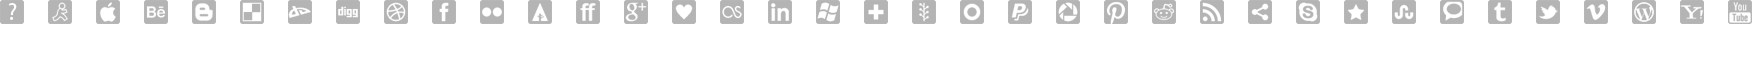
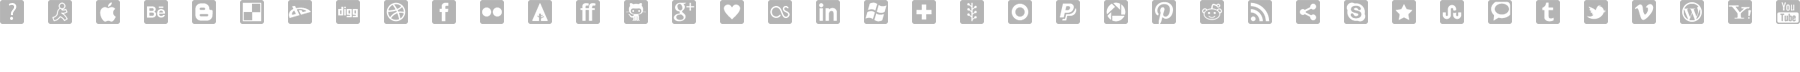
Fix some conception troubles:
* Rework theme (remove menu feature)
 * Move data source in the configuration
 * Add favicon feature
 * Add github social icon
 * Use project logo as favicon

Changed region(s): [[0.0308, 0.0, 1.0, 0.3333]]

diff --git a/web/cdn/expo/css/expo_display.css b/web/cdn/expo/css/expo_display.css
@@ -290,30 +290,31 @@ a:focus {
 #project-information > .content > .authors .social_networks > li.flicker a { background-position: -480px 0; }
 #project-information > .content > .authors .social_networks > li.forrst a { background-position: -528px 0; }
 #project-information > .content > .authors .social_networks > li.friend_feed a { background-position: -576px 0; }
-#project-information > .content > .authors .social_networks > li.google+ a { background-position: -624px 0; }
-#project-information > .content > .authors .social_networks > li.heart a { background-position: -672px 0; }
-#project-information > .content > .authors .social_networks > li.lastfm a { background-position: -720px 0; }
-#project-information > .content > .authors .social_networks > li.linkedin a { background-position: -768px 0; }
-#project-information > .content > .authors .social_networks > li.microsoft a { background-position: -816px 0; }
-#project-information > .content > .authors .social_networks > li.netvibes a { background-position: -864px 0; }
-#project-information > .content > .authors .social_networks > li.newsvine a { background-position: -912px 0; }
-#project-information > .content > .authors .social_networks > li.orkut a { background-position: -960px 0; }
-#project-information > .content > .authors .social_networks > li.paypal a { background-position: -1008px 0; }
-#project-information > .content > .authors .social_networks > li.picasa a { background-position: -1056px 0; }
-#project-information > .content > .authors .social_networks > li.pinterest a { background-position: -1104px 0; }
-#project-information > .content > .authors .social_networks > li.reddit a { background-position: -1152px 0; }
-#project-information > .content > .authors .social_networks > li.rss a { background-position: -1200px 0; }
-#project-information > .content > .authors .social_networks > li.sharethis a { background-position: -1248px 0; }
-#project-information > .content > .authors .social_networks > li.skype a { background-position: -1298px 0; }
-#project-information > .content > .authors .social_networks > li.star a { background-position: -1344px 0; }
-#project-information > .content > .authors .social_networks > li.stumbleupon a { background-position: -1392px 0; }
-#project-information > .content > .authors .social_networks > li.technorati a { background-position: -1440px 0; }
-#project-information > .content > .authors .social_networks > li.tumblr a { background-position: -1488px 0; }
-#project-information > .content > .authors .social_networks > li.twitter a { background-position: -1536px 0; }
-#project-information > .content > .authors .social_networks > li.vimeo a { background-position: -1584px 0; }
-#project-information > .content > .authors .social_networks > li.wordpress a { background-position: -1632px 0; }
-#project-information > .content > .authors .social_networks > li.yahoo a { background-position: -1680px 0; }
-#project-information > .content > .authors .social_networks > li.youtube a { background-position: -1728px 0; }
+#project-information > .content > .authors .social_networks > li.github a { background-position: -624px 0; }
+#project-information > .content > .authors .social_networks > li.google a { background-position: -672px 0; }
+#project-information > .content > .authors .social_networks > li.heart a { background-position: -720px 0; }
+#project-information > .content > .authors .social_networks > li.lastfm a { background-position: -768px 0; }
+#project-information > .content > .authors .social_networks > li.linkedin a { background-position: -816px 0; }
+#project-information > .content > .authors .social_networks > li.microsoft a { background-position: -864px 0; }
+#project-information > .content > .authors .social_networks > li.netvibes a { background-position: -912px 0; }
+#project-information > .content > .authors .social_networks > li.newsvine a { background-position: -960px 0; }
+#project-information > .content > .authors .social_networks > li.orkut a { background-position: -1008px 0; }
+#project-information > .content > .authors .social_networks > li.paypal a { background-position: -1056px 0; }
+#project-information > .content > .authors .social_networks > li.picasa a { background-position: -1104px 0; }
+#project-information > .content > .authors .social_networks > li.pinterest a { background-position: -1152px 0; }
+#project-information > .content > .authors .social_networks > li.reddit a { background-position: -1200px 0; }
+#project-information > .content > .authors .social_networks > li.rss a { background-position: -1248px 0; }
+#project-information > .content > .authors .social_networks > li.sharethis a { background-position: -1298px 0; }
+#project-information > .content > .authors .social_networks > li.skype a { background-position: -1344px 0; }
+#project-information > .content > .authors .social_networks > li.star a { background-position: -1392px 0; }
+#project-information > .content > .authors .social_networks > li.stumbleupon a { background-position: -1440px 0; }
+#project-information > .content > .authors .social_networks > li.technorati a { background-position: -1488px 0; }
+#project-information > .content > .authors .social_networks > li.tumblr a { background-position: -1536px 0; }
+#project-information > .content > .authors .social_networks > li.twitter a { background-position: -1584px 0; }
+#project-information > .content > .authors .social_networks > li.vimeo a { background-position: -1632px 0; }
+#project-information > .content > .authors .social_networks > li.wordpress a { background-position: -1680px 0; }
+#project-information > .content > .authors .social_networks > li.yahoo a { background-position: -1728px 0; }
+#project-information > .content > .authors .social_networks > li.youtube a { background-position: -1776px 0; }
 
 #project-information > .content > .authors .social_networks > li.aol:hover a { background-position: -48px -48px; }
 #project-information > .content > .authors .social_networks > li.apple:hover a { background-position:  -96px -48px; }
@@ -327,30 +328,31 @@ a:focus {
 #project-information > .content > .authors .social_networks > li.flicker:hover a { background-position: -480px -48px; }
 #project-information > .content > .authors .social_networks > li.forrst:hover a { background-position: -528px -48px; }
 #project-information > .content > .authors .social_networks > li.friend_feed:hover a { background-position: -576px -48px; }
-#project-information > .content > .authors .social_networks > li.google+:hover a { background-position: -624px -48px; }
-#project-information > .content > .authors .social_networks > li.heart:hover a { background-position: -672px -48px; }
-#project-information > .content > .authors .social_networks > li.lastfm:hover a { background-position: -720px -48px; }
-#project-information > .content > .authors .social_networks > li.linkedin:hover a { background-position: -768px -48px; }
-#project-information > .content > .authors .social_networks > li.microsoft:hover a { background-position: -816px -48px; }
-#project-information > .content > .authors .social_networks > li.netvibes:hover a { background-position: -864px -48px; }
-#project-information > .content > .authors .social_networks > li.newsvine:hover a { background-position: -912px -48px; }
-#project-information > .content > .authors .social_networks > li.orkut:hover a { background-position: -960px -48px; }
-#project-information > .content > .authors .social_networks > li.paypal:hover a { background-position: -1008px -48px; }
-#project-information > .content > .authors .social_networks > li.picasa:hover a { background-position: -1056px -48px; }
-#project-information > .content > .authors .social_networks > li.pinterest:hover a { background-position: -1104px -48px; }
-#project-information > .content > .authors .social_networks > li.reddit:hover a { background-position: -1152px -48px; }
-#project-information > .content > .authors .social_networks > li.rss:hover a { background-position: -1200px -48px; }
-#project-information > .content > .authors .social_networks > li.sharethis:hover a { background-position: -1248px -48px; }
-#project-information > .content > .authors .social_networks > li.skype:hover a { background-position: -1298px -48px; }
-#project-information > .content > .authors .social_networks > li.star:hover a { background-position: -1344px -48px; }
-#project-information > .content > .authors .social_networks > li.stumbleupon:hover a { background-position: -1392px -48px; }
-#project-information > .content > .authors .social_networks > li.technorati:hover a { background-position: -1440px -48px; }
-#project-information > .content > .authors .social_networks > li.tumblr:hover a { background-position: -1488px -48px; }
-#project-information > .content > .authors .social_networks > li.twitter:hover a { background-position: -1536px -48px; }
-#project-information > .content > .authors .social_networks > li.vimeo:hover a { background-position: -1584px -48px; }
-#project-information > .content > .authors .social_networks > li.wordpress:hover a { background-position: -1632px -48px; }
-#project-information > .content > .authors .social_networks > li.yahoo:hover a { background-position: -1680px -48px; }
-#project-information > .content > .authors .social_networks > li.youtube:hover a { background-position: -1728px -48px; }x
+#project-information > .content > .authors .social_networks > li.github:hover a { background-position: -624px -48px; }
+#project-information > .content > .authors .social_networks > li.google:hover a { background-position: -672px -48px; }
+#project-information > .content > .authors .social_networks > li.heart:hover a { background-position: -720px -48px; }
+#project-information > .content > .authors .social_networks > li.lastfm:hover a { background-position: -768px -48px; }
+#project-information > .content > .authors .social_networks > li.linkedin:hover a { background-position: -816px -48px; }
+#project-information > .content > .authors .social_networks > li.microsoft:hover a { background-position: -864px -48px; }
+#project-information > .content > .authors .social_networks > li.netvibes:hover a { background-position: -912px -48px; }
+#project-information > .content > .authors .social_networks > li.newsvine:hover a { background-position: -960px -48px; }
+#project-information > .content > .authors .social_networks > li.orkut:hover a { background-position: -1008px -48px; }
+#project-information > .content > .authors .social_networks > li.paypal:hover a { background-position: -1056px -48px; }
+#project-information > .content > .authors .social_networks > li.picasa:hover a { background-position: -1104px -48px; }
+#project-information > .content > .authors .social_networks > li.pinterest:hover a { background-position: -1152px -48px; }
+#project-information > .content > .authors .social_networks > li.reddit:hover a { background-position: -1200px -48px; }
+#project-information > .content > .authors .social_networks > li.rss:hover a { background-position: -1248px -48px; }
+#project-information > .content > .authors .social_networks > li.sharethis:hover a { background-position: -1298px -48px; }
+#project-information > .content > .authors .social_networks > li.skype:hover a { background-position: -1344px -48px; }
+#project-information > .content > .authors .social_networks > li.star:hover a { background-position: -1392px -48px; }
+#project-information > .content > .authors .social_networks > li.stumbleupon:hover a { background-position: -1440px -48px; }
+#project-information > .content > .authors .social_networks > li.technorati:hover a { background-position: -1488px -48px; }
+#project-information > .content > .authors .social_networks > li.tumblr:hover a { background-position: -1536px -48px; }
+#project-information > .content > .authors .social_networks > li.twitter:hover a { background-position: -1584px -48px; }
+#project-information > .content > .authors .social_networks > li.vimeo:hover a { background-position: -1632px -48px; }
+#project-information > .content > .authors .social_networks > li.wordpress:hover a { background-position: -1680px -48px; }
+#project-information > .content > .authors .social_networks > li.yahoo:hover a { background-position: -1728px -48px; }
+#project-information > .content > .authors .social_networks > li.youtube:hover a { background-position: -1776px -48px; }
 
 #project-information > .content > .tags > ul {
   margin: 0;

diff --git a/lib/expo/Model/Theme.php b/lib/expo/Model/Theme.php
@@ -31,10 +31,6 @@ class Theme
 
     protected $remote_js;
 
-    protected $menu_name;
-
-    protected $menu_items;
-
     public function __construct($data)
     {
         $this->setData($data);
@@ -42,7 +38,6 @@ class Theme
         $this->setDisplayJs(array());
         $this->setRemoteCss(array());
         $this->setRemoteJs(array());
-        $this->setMenuItems(array());
     }
 
     /***********
@@ -137,26 +132,6 @@ class Theme
     public function getRemoteJs()
     {
         return $this->remote_js;
-    }
-
-    /**
-     * Get theme menu name
-     *
-     * @return string
-     */
-    public function getMenuName()
-    {
-        return $this->menu_name;
-    }
-
-    /**
-     * Get theme menu items
-     *
-     * @return array
-     */
-    public function getMenuItems()
-    {
-        return $this->menu_items;
     }
 
     /***********
@@ -281,32 +256,6 @@ class Theme
     }
 
     /**
-     * Get theme menu name
-     *
-     * @param string $menu_name
-     * @return Theme
-     */
-    public function setMenuName($menu_name)
-    {
-        $this->menu_name = $menu_name;
-
-        return $this;
-    }
-
-    /**
-     * Get theme menu items
-     *
-     * @param array $menu_items
-     * @return Theme
-     */
-    public function setMenuItems($menu_items)
-    {
-        $this->menu_items = $menu_items;
-
-        return $this;
-    }
-
-    /**
      * Add display css
      *
      * @param string $src
@@ -347,17 +296,6 @@ class Theme
     }
 
     /**
-     * Add menu items
-     *
-     * @param string $name
-     * @param string $src
-     */
-    public function addMenuItem($name, $src)
-    {
-        $this->menu_items[$name] = $this->getAssetAbsolutePath($src);
-    }
-
-    /**
      * Get theme path
      *
      * @return string
@@ -381,18 +319,5 @@ class Theme
     public function getAssetAbsolutePath($asset)
     {
         return sprintf('%s/%s', $this->getThemePath(), $asset);
-    }
-
-    /**
-     * Get default data
-     *
-     * @param string $src
-     */
-    public function getDefaultData()
-    {
-        $items = $this->getMenuItems();
-        $values = array_values($items);
-
-        return $values[0];
     }
 }

diff --git a/web/index.php b/web/index.php
@@ -6,6 +6,7 @@
     <meta name="viewport" content="width=device-width, initial-scale=1.0"/>
     <title><?php echo $projectPlayer->getProject()->getName(); ?> - expo</title>
 
+    <link rel="icon" type="image/png" href="<?php echo $projectPlayer->getProject()->getLogo(); ?>" />
     <link rel="stylesheet" type="text/css" href="/bootstrap/docs/assets/css/bootstrap.css" />
     <link rel="stylesheet" type="text/css" href="/bootstrap/docs/assets/css/bootstrap-responsive.css" />
     <?php $projectPlayer->loadCss() ?>
@@ -35,34 +36,6 @@
   </head>
 
   <body>
-
-  <?php /*
-    <div class="navbar navbar-inverse navbar-fixed-top">
-      <div class="navbar-inner">
-        <div class="container">
-          <!-- .btn-navbar is used as the toggle for collapsed navbar content -->
-          <a class="btn btn-navbar" data-toggle="collapse" data-target=".nav-collapse">
-            <span class="icon-bar"></span>
-            <span class="icon-bar"></span>
-            <span class="icon-bar"></span>
-          </a>
-          <!-- Be sure to leave the brand out there if you want it shown -->
-          <a class="brand" href="#"><span class="logo"></span><?php echo $projectPlayer->getTheme()->getMenuName() ?></a>
-          <!-- Everything you want hidden at 940px or less, place within here -->
-          <div class="nav-collapse collapse">
-            <ul class="nav nav-pills">
-              <?php foreach($projectPlayer->getTheme()->getMenuItems() as $name => $data): ?>
-              <li class="active">
-                <a href="?data=<?php echo urlencode($data) ?>" title="<?php echo $name ?>"><?php echo $name ?></a>
-              </li>
-              <?php endforeach; ?>
-            </ul>
-          </div>
-
-        </div>
-      </div>
-    </div>
-  */ ?>
 
     <div id="player-information">
       <div class="row-fluid">

diff --git a/lib/expo/Factory/ThemeLoader.php b/lib/expo/Factory/ThemeLoader.php
@@ -61,17 +61,6 @@ abstract class ThemeLoader
             $theme->addRemoteJs(html_entity_decode($attrs['path'], ENT_NOQUOTES, 'UTF-8'));
         }
 
-        $menuAttrs = $xmlTheme->menu->attributes();
-        $theme->setMenuName(html_entity_decode($menuAttrs['name'], ENT_NOQUOTES, 'UTF-8'));
-
-        foreach($xmlTheme->menu->item as $item) {
-            $itemAttrs = $item->attributes();
-            $theme->addMenuItem(
-                html_entity_decode($itemAttrs['name'], ENT_NOQUOTES, 'UTF-8'),
-                html_entity_decode($itemAttrs['src'], ENT_NOQUOTES, 'UTF-8')
-            );
-        }
-
         return $theme;
     }
 }

diff --git a/config/config.inc.php b/config/config.inc.php
@@ -1,4 +1,5 @@
 <?php
-  $expo_srv       = '192.168.0.42';
-  $expo_theme_src = sprintf('http://%s/%s', $expo_srv, 'cdn/lumiere/expo.xml');
+  $expo_srv       = '192.168.0.12';
+  $expo_data_src  = sprintf('http://%s/%s', $expo_srv, 'cdn/expo/data/whatisexpo.xml');
+  $expo_theme_src = sprintf('http://%s/%s', $expo_srv, 'cdn/expo/expo.xml');
 ?>

diff --git a/lib/expo/loader.php b/lib/expo/loader.php
@@ -12,10 +12,8 @@
 
   $theme = ThemeLoader::load($expo_theme_src);
 
-  $data = isset($_GET['data']) ? urldecode($_GET['data']) : $theme->getDefaultData();
-
   $projectPlayer = ProjectPlayerFactory::createPlayer(
-      ProjectFactory::initProject($data),
+      ProjectFactory::initProject($expo_data_src),
       $theme
   );
 
